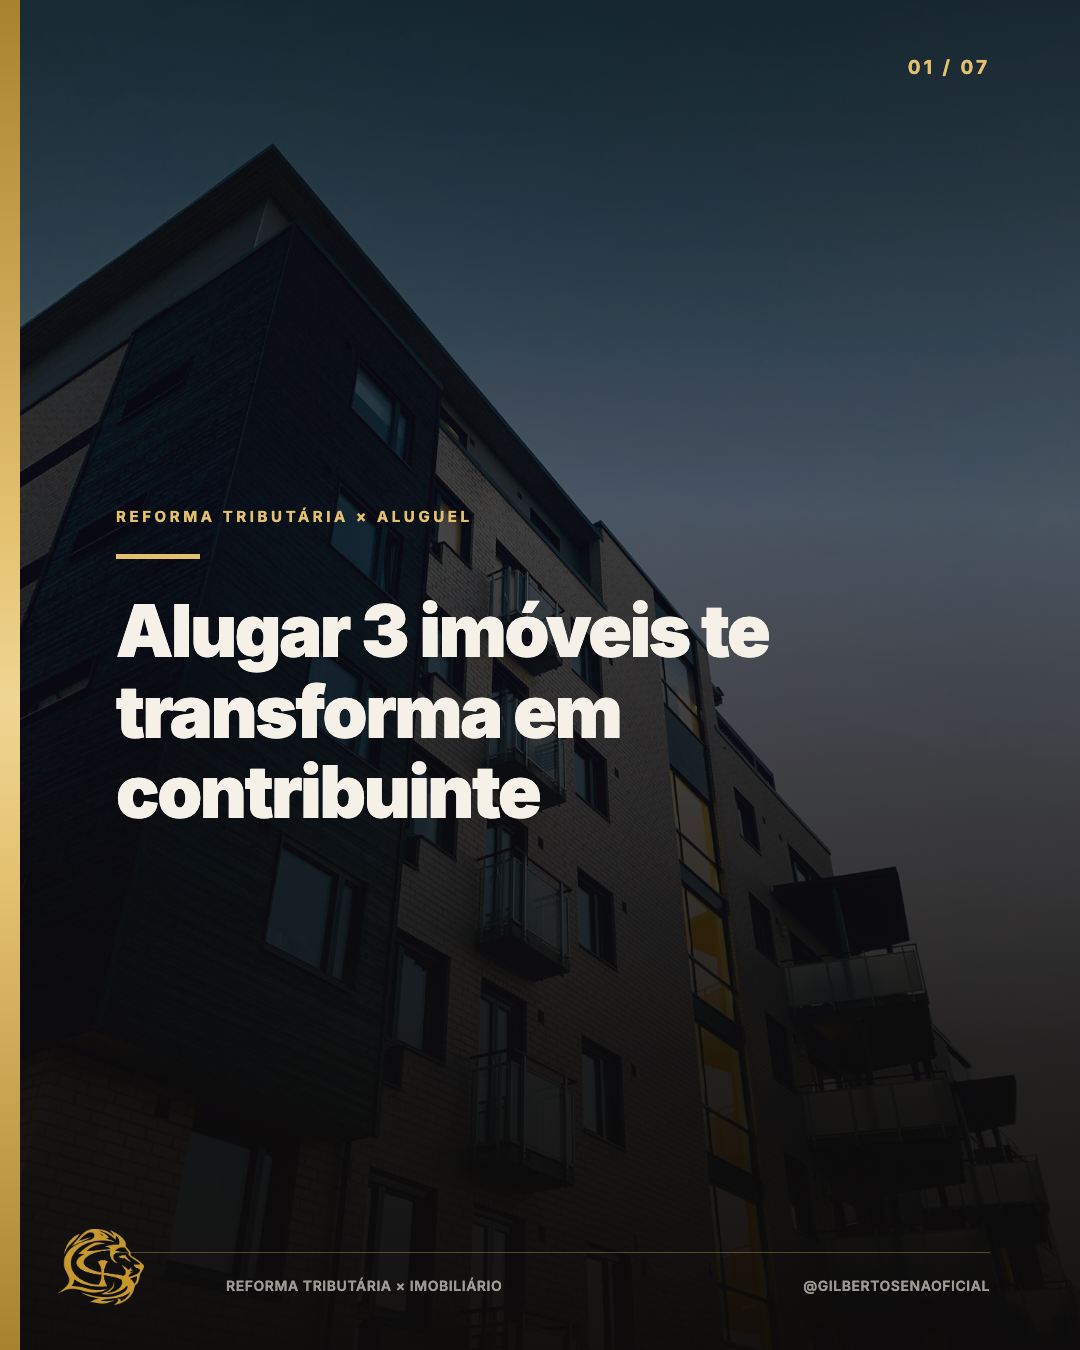
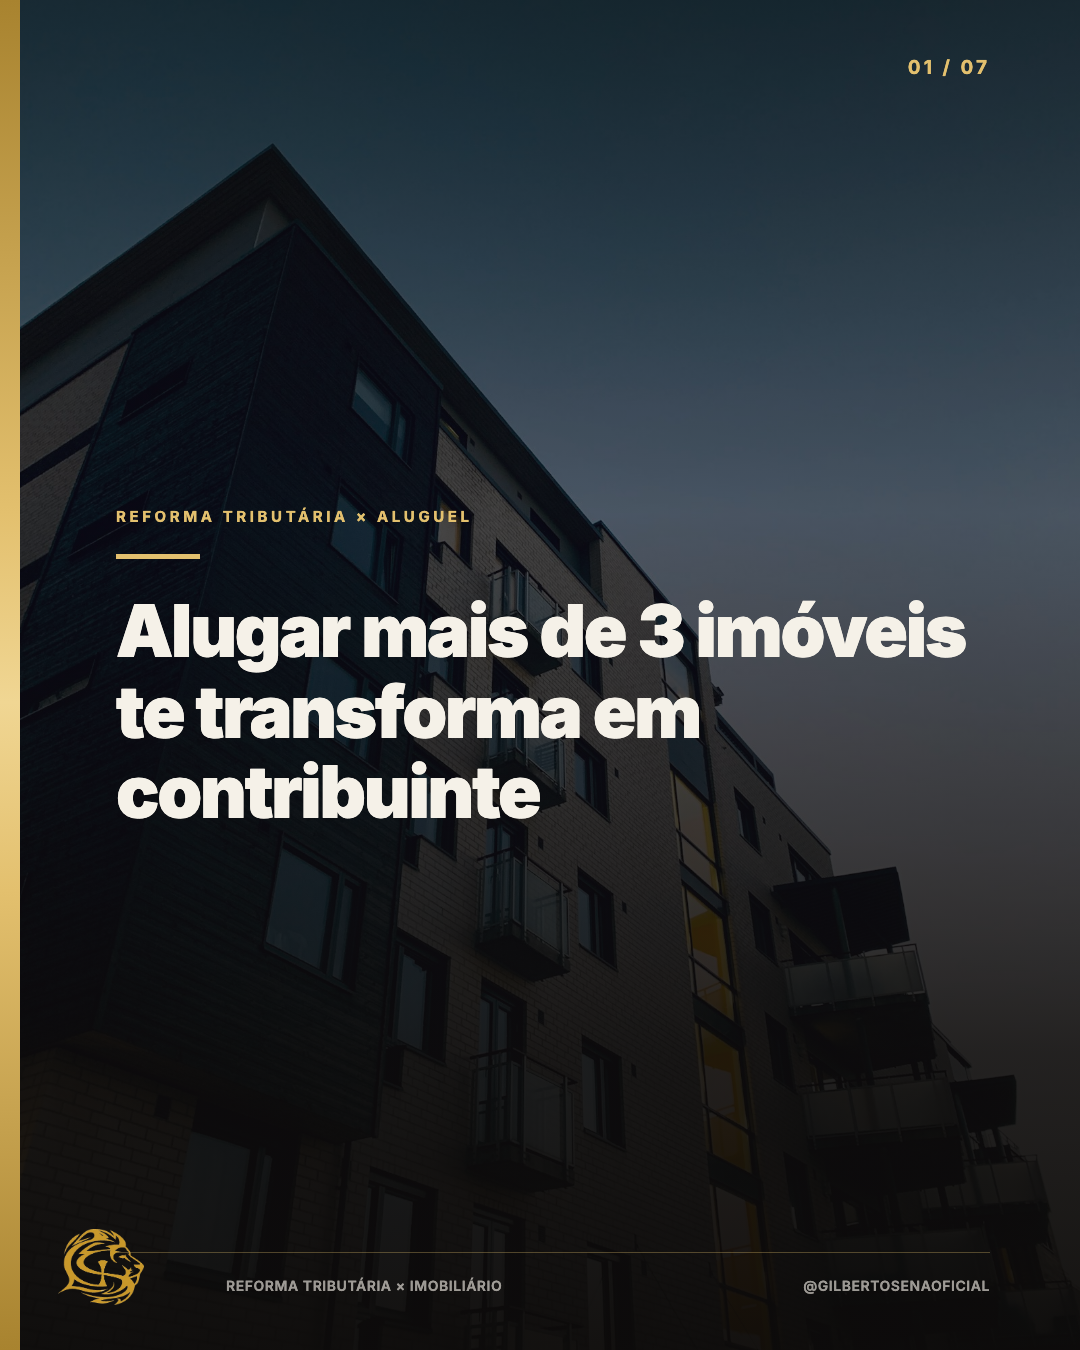
Carrossel do imobiliario entra no lugar do IPI (19/10 15h); revisao de IPI e Imposto Seletivo
- imobiliario-aluguel: capa e legenda corrigidas ("mais de 3 imoveis"), agendado na Zernio
- _PLANO-DA-FILA: coluna das 15h andou um dia; 31 por enfileirar; sobra 05/11 15h
- onde-paramos e cronograma: reels do IPI revisados (ficam); pendencia sobre
  Imposto Seletivo "1 de janeiro" (carrossel 7-mudancas no ar, reels 22/10 e 24/10)
- fichamentos: noticia da Agencia Brasil de 8/out e gancho impreciso do aluguel

Changed region(s): [[0.1222, 0.4356, 0.9167, 0.56]]

diff --git a/saidas/CARROSSEIS/carrossel-imobiliario-aluguel-2026-08-30/carrossel.html b/saidas/CARROSSEIS/carrossel-imobiliario-aluguel-2026-08-30/carrossel.html
@@ -152,7 +152,7 @@
   </div>
   <div class="kicker">REFORMA TRIBUTÁRIA × ALUGUEL</div>
   <div class="rule"></div>
-  <div class="capa-title">Alugar 3 imóveis te transforma em contribuinte</div>
+  <div class="capa-title">Alugar mais de 3 imóveis te transforma em contribuinte</div>
   <div class="footer"><span>REFORMA TRIBUTÁRIA × IMOBILIÁRIO</span><span>@GILBERTOSENAOFICIAL</span></div>
 </div>
 

diff --git a/saidas/CARROSSEIS/_PLANO-DA-FILA.md b/saidas/CARROSSEIS/_PLANO-DA-FILA.md
@@ -9,24 +9,24 @@ Completa o dia de seis: 5h Provérbios, 9h frase, 12h reels, 15h carrossel,
 | 16/10 | 7-mudancas-2027-2026-08-31 | quem-e-gilberto-2026-10-06 |
 | 17/10 | simples-nacional-prazo-2026-09-22 | dre-7-passos-2026-09-29 |
 | 18/10 | revenda-carros-stj-2026-08-27 | ponto-de-equilibrio-2026-08-02 |
-| 19/10 | ⏸ SEGURADO (ipi-imposto-seletivo, ver `_SEGURADO.md` na pasta dele) | 12-pilares-business-plan-2026-08-03 |
+| 19/10 | imobiliario-aluguel-2026-08-30 | 12-pilares-business-plan-2026-08-03 |
 | 20/10 | pf-autonomo-cbs-2026-08-27 | 5gs-gestao-financeira-2026-07-17 |
-| 21/10 | imobiliario-aluguel-2026-08-30 | 5gs-gestao-tributaria-2026-07-17 |
-| 22/10 | redutor-ajuste-construcao-2026-08-30 | 5gs-gestao-de-si-2026-07-17 extraido |
-| 23/10 | simples-hibrido-2026-08-27 | 5gs-fornecedores-clientes-2026-10-06 |
-| 24/10 | reforma-ebooks-2026-09-13 | 10-pergaminhos-maior-vendedor-2026-08-03 |
-| 25/10 | reforma-infoprodutores-2026-09-13 | rede-de-mastermind-2026-08-09 |
-| 26/10 | reforma-ecommerce-2026-09-13 | forjado-imersao-2026-08-07 |
-| 27/10 | reforma-representante-comercial-2026-09-13 | dissolucao-sociedade-2026-08-10 |
-| 28/10 | reforma-medicos-2026-09-13 | agronegocio-reforma-2026-08-30 |
-| 29/10 | medicos-reforma-2026-08-27 | educacao-reforma-2026-08-30 |
-| 30/10 | transportadoras-reforma-2026-08-27 | textil-alerta-2026-08-27 |
-| 31/10 | comercio-reforma-2026-08-27 | biomedicina-reforma-2026-08-27 |
-| 01/11 | servicos-alerta-2026-08-27 | entregadores-app-reforma-2026-08-27 |
-| 02/11 | odontologia-reforma-2026-08-27 | tecnologia-saas-reforma-2026-08-30 |
-| 03/11 | ecommerce-alerta-2026-08-27 | saude-geral-reforma-2026-08-27 |
-| 04/11 | clinicas-esteticas-reforma-2026-08-27 | transportes-reforma-2026-08-27 |
-| 05/11 | industria-reforma-2026-08-30 | 10-ebooks-leitura-2026-09-06 |
+| 21/10 | redutor-ajuste-construcao-2026-08-30 | 5gs-gestao-tributaria-2026-07-17 |
+| 22/10 | simples-hibrido-2026-08-27 | 5gs-gestao-de-si-2026-07-17 extraido |
+| 23/10 | reforma-ebooks-2026-09-13 | 5gs-fornecedores-clientes-2026-10-06 |
+| 24/10 | reforma-infoprodutores-2026-09-13 | 10-pergaminhos-maior-vendedor-2026-08-03 |
+| 25/10 | reforma-ecommerce-2026-09-13 | rede-de-mastermind-2026-08-09 |
+| 26/10 | reforma-representante-comercial-2026-09-13 | forjado-imersao-2026-08-07 |
+| 27/10 | reforma-medicos-2026-09-13 | dissolucao-sociedade-2026-08-10 |
+| 28/10 | medicos-reforma-2026-08-27 | agronegocio-reforma-2026-08-30 |
+| 29/10 | transportadoras-reforma-2026-08-27 | educacao-reforma-2026-08-30 |
+| 30/10 | comercio-reforma-2026-08-27 | textil-alerta-2026-08-27 |
+| 31/10 | servicos-alerta-2026-08-27 | biomedicina-reforma-2026-08-27 |
+| 01/11 | odontologia-reforma-2026-08-27 | entregadores-app-reforma-2026-08-27 |
+| 02/11 | ecommerce-alerta-2026-08-27 | tecnologia-saas-reforma-2026-08-30 |
+| 03/11 | clinicas-esteticas-2026-08-27 | saude-geral-reforma-2026-08-27 |
+| 04/11 | industria-reforma-2026-08-30 | transportes-reforma-2026-08-27 |
+| 05/11 | *(vago)* | 10-ebooks-leitura-2026-09-06 |
 
 ⚠ `10-ebooks-leitura` tem **12 lâminas** e o Instagram aceita 10. Está em
 último de propósito, esperando ele decidir se corta duas ou vira dois posts.
@@ -41,17 +41,35 @@ Completa o dia de seis: 5h Provérbios, 9h frase, 12h reels, 15h carrossel,
 | 16/10 | ✅ 7-mudancas-2027 | ✅ quem-e-gilberto |
 | 17/10 | ✅ simples-nacional-prazo | ✅ dre-7-passos |
 | 18/10 | ✅ revenda-carros-stj | ✅ ponto-de-equilibrio |
-| 19/10 | ⏸ vazio (IPI segurado, post apagado da Zernio em 16/out) | ✅ 12-pilares-business-plan |
+| 19/10 | ✅ imobiliario-aluguel (entrou no lugar do IPI) | ✅ 12-pilares-business-plan |
 | 20/10 | ✅ pf-autonomo-cbs | ✅ 5gs-gestao-financeira |
 | 21/10 em diante | ⏳ | ⏳ |
 
-**Próximo:** 21/10 às 15h, `carrossel-imobiliario-aluguel-2026-08-30`.
+**Próximo:** 21/10 às 15h, `carrossel-redutor-ajuste-construcao-2026-08-30`.
+
+⚠ **A coluna das 15h andou um dia pra cima em 16/out** (o do IPI saiu e o
+imobiliário ocupou o 19/10). A coluna das 20h não mexeu, e a série dos 5Gs
+continua nas 20h. **Sobra um horário vago: 05/11 às 15h.** São 31 carrosséis
+por enfileirar, de 21/10 a 05/11.
 
 ⚠ **Troquei o Simples Híbrido do dia 18 com o Revenda de Carros do dia 23.**
 O Híbrido caía no dia seguinte ao Simples Nacional do dia 17, e os dois
 contam a mesma história (janela de setembro, 30 de novembro, março de 2027,
 fim do crédito presumido de 9,25%). Dois dias seguidos repetindo isso
 queima o assunto.
+
+🔴 **Capa com limite errado (16/out).** O imobiliário dizia na capa "Alugar 3
+imóveis te transforma em contribuinte". A regra é **mais de 3** imóveis (ou
+renda de aluguel acima de R$240 mil/ano), como o próprio slide 2 dizia. O erro
+veio de um gancho do fichamento, que também foi anotado. **Conferir número de
+corte (3, 4, 40.500, 240 mil) na capa contra o corpo, não só no corpo.**
+
+⚠ **Imposto Seletivo e IPI mudaram de situação (notícia de 8/out/2026, Agência
+Brasil).** A MP do IS só sai depois do 2º turno, e a cobrança pode começar só
+no fim de janeiro ou início de fevereiro de 2027. A carga do IPI será mantida
+nos setores do IS. **Antes de subir estes, ler a peça contra essa notícia:**
+`industria-reforma` (04/11), `transportes-reforma`, `reforma-ecommerce`. Não
+afirmar "IS estreia em 1º de janeiro" em nenhum.
 
 🔴 **O limiar de R$40.500 do nanoempreendedor.** O carrossel do autônomo dizia
 que "praticamente todo autônomo" vira contribuinte de CBS, e dava **diarista**

diff --git a/_memoria/onde-paramos.md b/_memoria/onde-paramos.md
@@ -11,18 +11,20 @@
 
 ## O primeiro ato da próxima sessão
 
-**Duas frentes abertas.** (1) Continuar enfileirando os carrosséis, 32 pra ir,
+**Duas frentes abertas.** (1) Continuar enfileirando os carrosséis, 31 pra ir,
 de 21/10 a 05/11. (2) O projeto Reestruturando com Êxito, que ele vai
 alimentando aos poucos — ver a seção logo abaixo.
 
-**Carrosséis: faltam 32, de 21/10 a 05/11.**
+**Carrosséis: faltam 31, de 21/10 a 05/11.**
 
-Dez já estão na fila (16 a 20/out). O ponto de retomada está em
+Dez já estão na fila ou no ar (16 a 20/out). O ponto de retomada está em
 `saidas/CARROSSEIS/_PLANO-DA-FILA.md`, na tabela "Onde eu parei":
-**21/10 às 15h, `carrossel-imobiliario-aluguel-2026-08-30`**.
+**21/10 às 15h, `carrossel-redutor-ajuste-construcao-2026-08-30`**.
+A coluna das 15h andou um dia pra cima (o imobiliário entrou no 19/10), e
+sobra um horário vago, 05/11 às 15h.
 
-⚠ **Ler a seção 0 antes de subir qualquer peça.** Em dez carrosséis a
-conferência pegou **seis tipos de erro**, e nenhum deles aparece numa olhada
+⚠ **Ler a seção 0 antes de subir qualquer peça.** Em onze carrosséis a
+conferência pegou **sete tipos de erro**, e nenhum deles aparece numa olhada
 por cima. Um contradizia o media kit dele, outro contradizia outro carrossel
 da própria fila.
 
@@ -131,7 +133,7 @@ Public Sans. Sem azul e dourado.
 | 16/10 | ✅ 7-mudancas-2027 | ✅ quem-e-gilberto |
 | 17/10 | ✅ simples-nacional-prazo | ✅ dre-7-passos |
 | 18/10 | ✅ revenda-carros-stj | ✅ ponto-de-equilibrio |
-| 19/10 | ⏸ **vazio**: o do IPI saiu da fila (ver abaixo) | ✅ 12-pilares-business-plan |
+| 19/10 | ✅ imobiliario-aluguel (entrou no lugar do IPI) | ✅ 12-pilares-business-plan |
 | 20/10 | ✅ pf-autonomo-cbs | ✅ 5gs-gestao-financeira |
 | 21/10 em diante | ⏳ | ⏳ |
 
@@ -149,20 +151,34 @@ Public Sans. Sem azul e dourado.
 ⏸ **O carrossel do IPI (19/10 às 15h) foi tirado da fila em 16/out.** Eu tinha
 reescrito o texto como se a mudança "já foi editada" e "já está publicada", e
 a pesquisa só achou previsão, nada confirmado. O post da Zernio foi apagado.
-A pasta tem um `_SEGURADO.md` com o motivo. **O horário das 15h do dia 19 está
-livre:** decidir com ele se entra outro carrossel ou se espera o IPI ser
-verificado. Nenhum número do IPI vai ao ar sem fonte.
-**Três reels sobre o fim do IPI seguem na fila** (TikTok 17/10, YouTube 18/10,
-Instagram 20/10 às 12h). São falas dele de 27/ago e eu não mexi. Perguntar se
-ele quer revisar antes.
+A pasta tem um `_SEGURADO.md` com o motivo. **O horário foi preenchido com o
+carrossel do imobiliário** (Zernio `6ad2aba3f8010887b20b1b9c`, 7 lâminas, capa
+corrigida para "mais de 3"). Nenhum número do IPI vai ao ar sem fonte.
+
+**Os três reels sobre o fim do IPI ficam na fila** (TikTok 17/10, YouTube
+18/10, Instagram 20/10 às 12h). Revisados em 16/out: dizem só que a regra geral
+vai a zero e que a exceção é a Zona Franca, que é a regra da Constituição e da
+LC 214, e não citam a MP. Nada a tirar.
+
+🔴 **Pendente com ele: Imposto Seletivo "em 1º de janeiro".** Notícia da
+Agência Brasil de 8/out/2026: a MP do IS só vai depois do 2º turno e a cobrança
+pode começar só no fim de janeiro ou início de fevereiro de 2027. Estas peças
+dizem que ele começa em 1º/jan/2027:
+- **já no ar:** carrossel `7-mudancas-2027` (16/10 às 15h), "estreia junto"
+- **na fila, fala dele gravada (não dá pra trocar só a legenda):** reels de
+  **22/10 às 12h** ("sete pecados", item 2) e de **24/10 às 12h** ("imposto do
+  pecado"), os dois em Instagram, TikTok e YouTube
+Perguntar a ele: tira os dois reels da fila e entra outro no lugar? E o
+carrossel já publicado, edita a legenda? Faltam reels prontos pra repor, ver o
+cronograma.
 
 ⚠ **`carrossel-10-ebooks-leitura-2026-09-06` tem 12 lâminas e o Instagram
 aceita 10.** Está por último de propósito. Perguntar: corta duas ou vira dois
 posts?
 
-### 🔴 Os seis erros que a conferência já pegou. Conferir SEMPRE.
+### 🔴 Os sete erros que a conferência já pegou. Conferir SEMPRE.
 
-**Em dez carrosséis, seis tipos de erro.** Cada um teria ido ao ar.
+**Em onze carrosséis, sete tipos de erro.** Cada um teria ido ao ar.
 
 | # | O quê | Onde apareceu |
 |---|---|---|
@@ -172,6 +188,7 @@ posts?
 | 4 | **`**negrito**` markdown**, que o Instagram mostra como asterisco | 11 legendas de uma vez |
 | 5 | **Data relativa de agosto** — "essa semana", "semana que vem" | ipi-imposto-seletivo, 2 cards + legenda |
 | 6 | 🔴 **O limiar de R$40.500 do nanoempreendedor** | pf-autonomo-cbs |
+| 7 | **Número de corte errado só na capa**: "Alugar 3 imóveis" quando a regra é **mais de 3** | imobiliario-aluguel, veio de um gancho do fichamento |
 
 **O erro 6 é o mais grave e o mais repetido.** O carrossel dizia que
 "praticamente todo autônomo" vira contribuinte de CBS, e dava **diarista**

diff --git a/_memoria/cronograma-de-postagens.md b/_memoria/cronograma-de-postagens.md
@@ -2,6 +2,7 @@
 
 Fila real da Zernio, lida em **16/out/2026, 19h49**. Horário de Brasília.
 Quando eu mexer na fila, atualizo este arquivo.
+*Depois da leitura entrou o carrossel de 19/10 às 15h (imobiliário).*
 
 | Dia | Hora | Onde | O quê | Começo do texto |
 |---|---|---|---|---|
@@ -33,6 +34,7 @@ Quando eu mexer na fila, atualizo este arquivo.
 | 19/10 seg | 05h00 | Instagram | card | Vista-se de força e dignidade: enfrente os desafios sem abrir mão dos… |
 | 19/10 seg | 09h00 | Instagram | card | Comece com o que você tem. O próximo passo aparece quando você sai do… |
 | 19/10 seg | 12h00 | Instagram | reels | Quanto mais você evolui, mais sensível você fica. Parece contradição,… |
+| 19/10 seg | 15h00 | Instagram | carrossel | Alugar mais de 3 imóveis te transforma em contribuinte, e a maioria de quem vive de aluguel nem sabe… |
 | 19/10 seg | 18h00 | Instagram | reels | O sucesso dos maus é o silêncio dos bons. Tem muita gente boa de palc… |
 | 19/10 seg | 20h00 | Instagram | carrossel | Business plan bonito não paga conta. Isso paga. Eu já revisei muito p… |
 | 20/10 ter | 05h00 | Instagram | card | Fale com sabedoria. Uma conversa bem conduzida pode fortalecer uma pa… |
@@ -83,18 +85,19 @@ agendado em lugar nenhum. Os posts de antes das 20h do dia 16 já foram ao ar.
 
 | Rede | Posts na fila | O quê | Até quando |
 |---|---|---|---|
-| Instagram | 54 | 25 cards, 21 reels, 8 carrosséis | 31/10 às 5h (Provérbios) |
+| Instagram | 55 | 25 cards, 21 reels, 9 carrosséis | 31/10 às 5h (Provérbios) |
 | YouTube | 20 | só reels | 29/10 |
 | TikTok | 16 | só reels | 29/10 |
 
-**Carrosséis: só 8 na fila, e o último é 20/10 às 20h.** Faltam 32, de 21/10 a
-05/11, no ritmo de 15h e 20h. O mapa e o ponto de retomada estão em
+**Carrosséis: só 9 na fila, e o último é 20/10 às 20h.** Faltam 31, de 21/10 a
+05/11, no ritmo de 15h e 20h (sobra um horário vago, 05/11 às 15h). O mapa e o ponto de retomada estão em
 `saidas/CARROSSEIS/_PLANO-DA-FILA.md`.
 
-**O horário de 19/10 às 15h está vazio.** O carrossel do IPI saiu da fila
-(motivo em `saidas/CARROSSEIS/carrossel-ipi-imposto-seletivo-2026-08-27/_SEGURADO.md`).
+**O horário de 19/10 às 15h foi preenchido** com o carrossel do imobiliário,
+no lugar do IPI (motivo em
+`saidas/CARROSSEIS/carrossel-ipi-imposto-seletivo-2026-08-27/_SEGURADO.md`).
 
-**Só o dia 20/10 tem os 6 posts do Instagram** (5h, 9h, 12h, 15h, 18h, 20h).
+**Só os dias 19 e 20/10 têm os 6 posts do Instagram** (5h, 9h, 12h, 15h, 18h, 20h).
 O que falta nos outros dias:
 
 | Dias | O que falta |
@@ -118,3 +121,8 @@ e YouTube): às 12h e às 18h até 24/10, e só às 12h de 25 a 29/10.
 bondade com a indústria"): TikTok 17/10 às 2h, YouTube 18/10 às 6h e
 Instagram 20/10 às 12h. São falas dele de 27/ago, e eu não mexi. Como a
 publicação das medidas provisórias não foi confirmada, vale ele rever antes.
+
+⚠ **Dois reels dizem que o Imposto Seletivo começa em 1º de janeiro de 2027:**
+22/10 às 12h (série dos sete pecados) e 24/10 às 12h, nas três redes. A
+Agência Brasil de 8/out diz que a cobrança pode começar só no fim de janeiro
+ou em fevereiro. Aguardando decisão dele (ver `onde-paramos.md`).

diff --git a/saidas/CARROSSEIS/carrossel-imobiliario-aluguel-2026-08-30/legenda.md b/saidas/CARROSSEIS/carrossel-imobiliario-aluguel-2026-08-30/legenda.md
@@ -1,4 +1,4 @@
-Alugar 3 imóveis te transforma em contribuinte, e a maioria de quem vive de aluguel nem sabe disso.
+Alugar mais de 3 imóveis te transforma em contribuinte, e a maioria de quem vive de aluguel nem sabe disso.
 
 Você vira contribuinte obrigatório de IBS/CBS se tiver mais de 3 imóveis alugados, ou renda anual de aluguel acima de R$240 mil.
 
@@ -8,7 +8,9 @@ O redutor social ajuda: R$600 de desconto na base do aluguel residencial, e até
 
 Mas também vem obrigação nova: passa a ser obrigatório emitir nota fiscal pra receber aluguel. O que hoje é só um recibo vira documento fiscal.
 
-Renda de aluguel sempre pareceu "dinheiro parado rendendo". A reforma tornou isso operação, e operação, pra Receita, é decisão que se declara e se documenta.Me chama no direct.
+Renda de aluguel sempre pareceu "dinheiro parado rendendo". A reforma tornou isso operação, e operação, pra Receita, é decisão que se declara e se documenta.
+
+Me chama no direct.
 
 Gilberto Sena. Grupo Sena Soluções Empresariais.
 

diff --git a/conhecimento/reforma-tributaria-ipi-imposto-seletivo.md b/conhecimento/reforma-tributaria-ipi-imposto-seletivo.md
@@ -14,6 +14,16 @@
 > semana" e "semana seguinte" se referem a fim de agosto e início de setembro.
 > A publicação das duas MPs **não foi confirmada** em pesquisa de 16/out.
 > Verificar em fonte oficial antes de afirmar em peça pública que elas saíram.
+>
+> **O que a imprensa diz em out/2026** (Agência Brasil, 8/out/2026, Wellton
+> Máximo, [link](https://agenciabrasil.ebc.com.br/economia/noticia/2026-10/durigan-preve-envio-de-mp-do-imposto-seletivo-apos-eleicoes)):
+> o ministro Durigan disse que a MP com as alíquotas do Imposto Seletivo só
+> será enviada **depois do 2º turno**. Para valer em 1º/jan/2027 ela teria de
+> ter sido enviada até 2/out; a cobrança "poderá começar apenas no fim de
+> janeiro ou início de fevereiro de 2027". Pela proposta, a **carga do IPI é
+> mantida** nos setores que passam ao IS (veículos, embarcações, aeronaves,
+> cigarro, bebidas alcoólicas e açucaradas, minerais, apostas). Isso é o plano
+> do governo noticiado, não texto de lei.
 
 ## O que ele contou
 

diff --git a/conhecimento/reforma-tributaria-imobiliario-aluguel.md b/conhecimento/reforma-tributaria-imobiliario-aluguel.md
@@ -67,6 +67,9 @@
 
 - "Você tem 3 imóveis alugados? A partir de 2027 isso te transforma em
   contribuinte de um imposto que você nunca pagou."
+  ⚠ **Impreciso:** o gatilho é **mais de 3** imóveis (4 ou mais) ou renda de
+  aluguel acima de R$240 mil/ano. Quem tem exatamente 3 e fica abaixo dos
+  R$240 mil não vira contribuinte. Esse gancho gerou erro de capa em 16/out.
 - "Alugar imóvel virou emitir nota fiscal — e ninguém te avisou."
 - "Vender a casa própria não te torna contribuinte. Vender a quarta casa
   no mesmo ano, sim. A linha é a habitualidade, não o CPF."

diff --git a/saidas/CARROSSEIS/carrossel-imobiliario-aluguel-2026-08-30/texto.md b/saidas/CARROSSEIS/carrossel-imobiliario-aluguel-2026-08-30/texto.md
@@ -5,7 +5,7 @@ Base técnica: `conhecimento/reforma-tributaria-imobiliario-aluguel.md`.
 
 ## Slide 1 — CAPA
 Kicker: REFORMA TRIBUTÁRIA × ALUGUEL
-Título: Alugar 3 imóveis te transforma em contribuinte
+Título: Alugar mais de 3 imóveis te transforma em contribuinte
 
 ## Slide 2 — SOLO (light)
 Kicker: O GATILHO
@@ -30,4 +30,4 @@ Kicker: A LIÇÃO
 
 ## Slide 7 — CTA FINAL
 "Se você vive de aluguel, a pergunta não é mais quanto você recebe — é em qual regime você está."
-Tag: Inscrição no link da bio
+Tag: Me chama no direct
